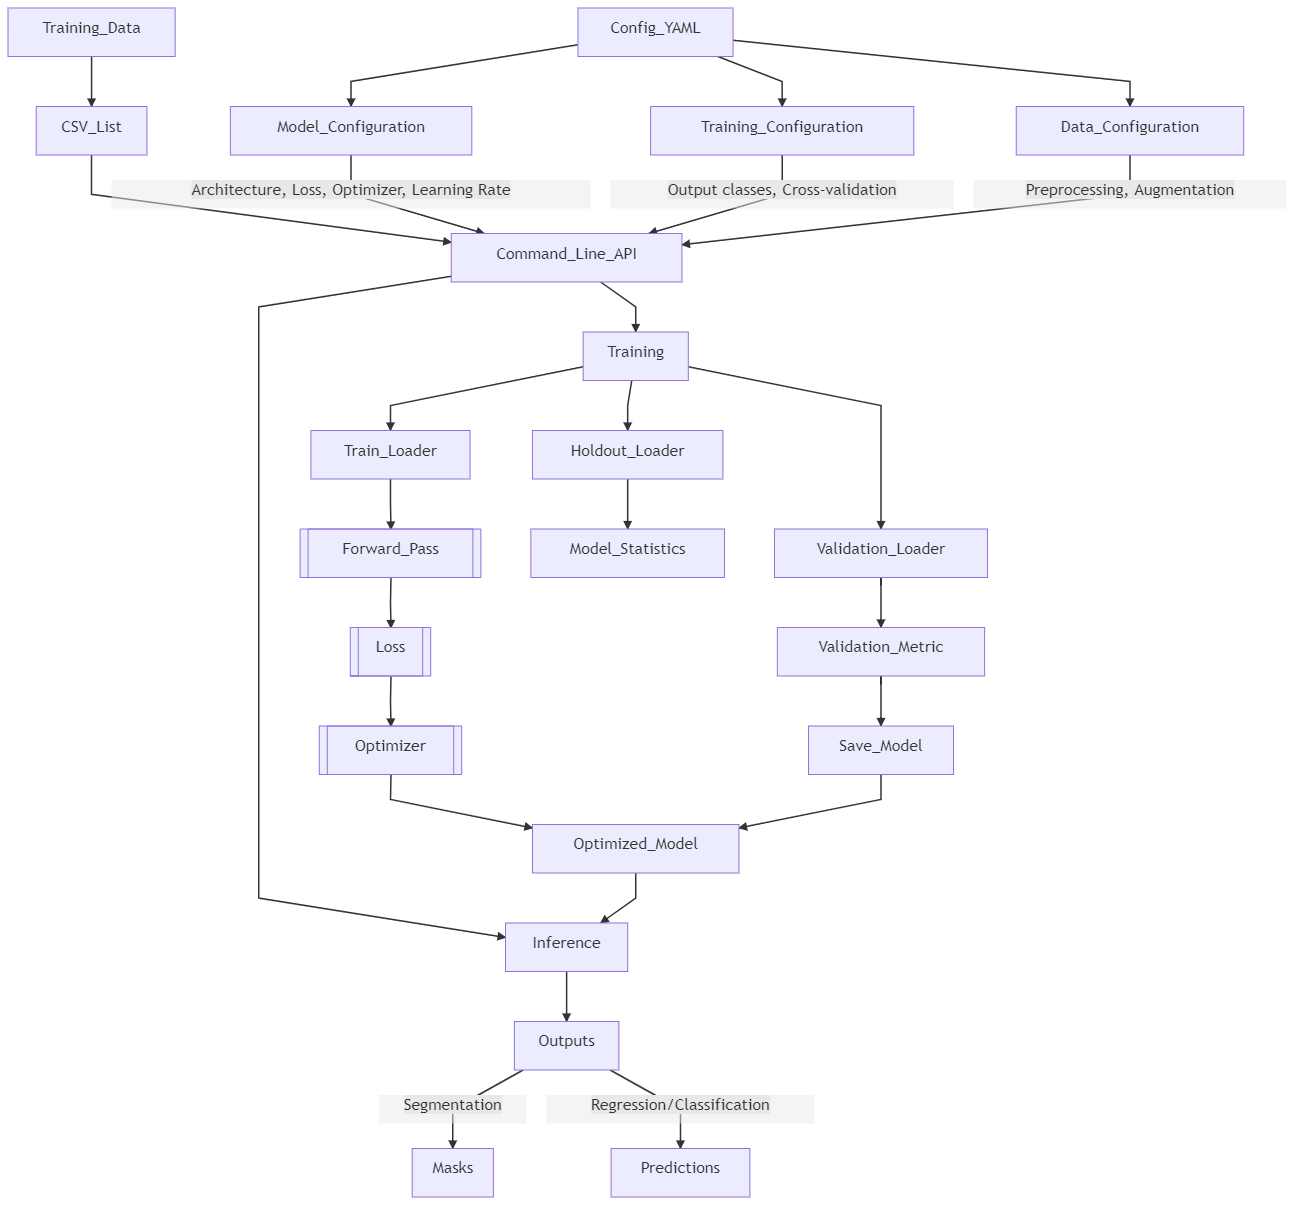
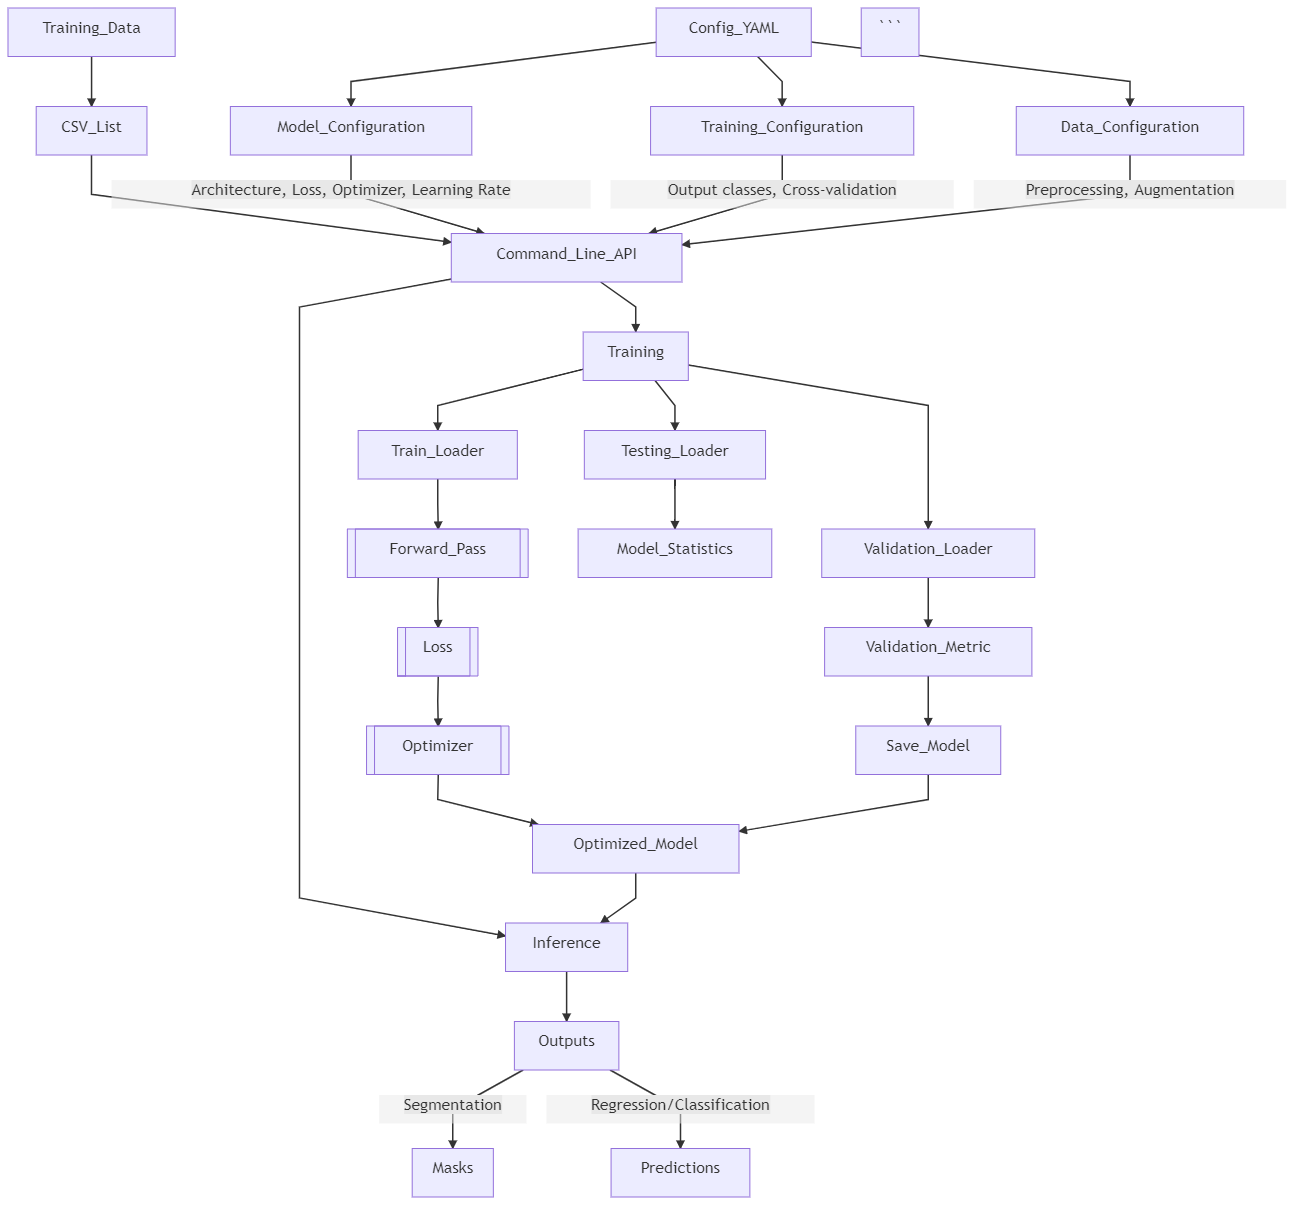
changed holdout to testing throughout #268

diff --git a/GANDLF/training_manager.py b/GANDLF/training_manager.py
@@ -28,50 +28,50 @@ def TrainingManager(dataframe, headers, outputDir, parameters, device):
 
     # check for single fold training
     singleFoldValidation = False
-    singleFoldHoldout = False
-    noHoldoutData = False
+    singleFoldTesting = False
+    noTestingData = False
 
-    if parameters['nested_training']['holdout'] < 0: # if the user wants a single fold training
-        parameters['nested_training']['holdout'] = abs(parameters['nested_training']['holdout'])
-        singleFoldHoldout = True
+    if parameters['nested_training']['testing'] < 0: # if the user wants a single fold training
+        parameters['nested_training']['testing'] = abs(parameters['nested_training']['testing'])
+        singleFoldTesting = True
 
     if parameters['nested_training']['validation'] < 0: # if the user wants a single fold training
         parameters['nested_training']['validation'] = abs(parameters['nested_training']['validation'])
         singleFoldValidation = True
 
-    # this is the condition where holdout data is not to be kept
-    if parameters['nested_training']['holdout'] == 1:
-        noHoldoutData = True
-        singleFoldHoldout = True
-        parameters['nested_training']['holdout'] = 2 # put 2 just so that the first for-loop does not fail
+    # this is the condition where testing data is not to be kept
+    if parameters['nested_training']['testing'] == 1:
+        noTestingData = True
+        singleFoldTesting = True
+        parameters['nested_training']['testing'] = 2 # put 2 just so that the first for-loop does not fail
 
     # initialize the kfold structures
-    kf_holdout = KFold(n_splits=parameters['nested_training']['holdout']) 
+    kf_testing = KFold(n_splits=parameters['nested_training']['testing']) 
     kf_validation = KFold(n_splits=parameters['nested_training']['validation'])
 
-    currentHoldoutFold = 0
+    currentTestingFold = 0
     currentValidationFold = 0
 
     # get the indeces for kfold splitting
     trainingData_full = dataframe
     training_indeces_full = list(trainingData_full.index.values)
 
-    # start the kFold train for holdout
-    for trainAndVal_index, holdout_index in kf_holdout.split(training_indeces_full): # perform holdout split
+    # start the kFold train for testing
+    for trainAndVal_index, testing_index in kf_testing.split(training_indeces_full): # perform testing split
 
-        # get the current training and holdout data
-        if noHoldoutData:
+        # get the current training and testing data
+        if noTestingData:
             trainingAndValidationData = trainingData_full # don't consider the split indeces for this case
-            holdoutData = None
+            testingData = None
         else:
             trainingAndValidationData = trainingData_full.iloc[trainAndVal_index]
-            holdoutData = trainingData_full.iloc[holdout_index]
+            testingData = trainingData_full.iloc[testing_index]
 
         # the output of the current fold is only needed if multi-fold training is happening
-        if singleFoldHoldout:
+        if singleFoldTesting:
             currentOutputFolder = outputDir
         else:
-            currentOutputFolder = os.path.join(outputDir, 'holdout_' + str(currentHoldoutFold))
+            currentOutputFolder = os.path.join(outputDir, 'testing_' + str(currentTestingFold))
             Path(currentOutputFolder).mkdir(parents=True, exist_ok=True)
 
         # save the current model configuration as a sanity check
@@ -80,20 +80,20 @@ def TrainingManager(dataframe, headers, outputDir, parameters, device):
             with open(currentModelConfigPickle, 'wb') as handle:
                 pickle.dump(parameters, handle, protocol=pickle.HIGHEST_PROTOCOL)
 
-        # save the current training+validation and holdout datasets 
-        if noHoldoutData:
+        # save the current training+validation and testing datasets 
+        if noTestingData:
             print('!!! WARNING !!!')
-            print('!!! Holdout data is empty, which will result in scientifically incorrect results; use at your own risk !!!')
+            print('!!! Testing data is empty, which will result in scientifically incorrect results; use at your own risk !!!')
             print('!!! WARNING !!!')
             current_training_indeces_full = trainingAndValidationData # using the new indeces for validation training
         else:
-            currentTrainingAndValidataionDataPickle = os.path.join(currentOutputFolder, 'trainAndVal.pkl')
-            currentHoldoutDataPickle = os.path.join(currentOutputFolder, 'holdout.pkl')
+            currentTrainingAndValidationDataPickle = os.path.join(currentOutputFolder, 'trainAndVal.pkl')
+            currentTestingDataPickle = os.path.join(currentOutputFolder, 'testing.pkl')
             
-            if not os.path.exists(currentHoldoutDataPickle):
-                holdoutData.to_pickle(currentHoldoutDataPickle)
-            if not os.path.exists(currentTrainingAndValidataionDataPickle):
-                trainingAndValidationData.to_pickle(currentTrainingAndValidataionDataPickle)
+            if not os.path.exists(currentTestingDataPickle):
+                testingData.to_pickle(currentTestingDataPickle)
+            if not os.path.exists(currentTrainingAndValidationDataPickle):
+                trainingAndValidationData.to_pickle(currentTrainingAndValidationDataPickle)
             
             current_training_indeces_full = list(trainingAndValidationData.index.values) # using the new indeces for validation training
 
@@ -112,7 +112,7 @@ def TrainingManager(dataframe, headers, outputDir, parameters, device):
 
             if (not parameters['parallel_compute_command']) or (singleFoldValidation): # parallel_compute_command is an empty string, thus no parallel computing requested
                 trainingLoop(trainingDataFromPickle=trainingData, validationDataFromPickle=validationData, headers = headers, outputDir=currentValOutputFolder,
-                            device=device, parameters=parameters, holdoutDataFromPickle=holdoutData)
+                            device=device, parameters=parameters, testingDataFromPickle=testingData)
 
             else:
                 # # write parameters to pickle - this should not change for the different folds, so keeping is independent
@@ -141,12 +141,12 @@ def TrainingManager(dataframe, headers, outputDir, parameters, device):
                     ' -val_loader_pickle ' + currentValidationDataPickle + \
                     ' -parameter_pickle ' + currentModelConfigPickle + \
                     ' -headers_pickle ' + headersPickle + \
-                    ' -device ' + str(device) + ' -outputDir ' + currentValOutputFolder + ' -holdout_loader_pickle '
+                    ' -device ' + str(device) + ' -outputDir ' + currentValOutputFolder + ' -testing_loader_pickle '
                 
-                if noHoldoutData:
+                if noTestingData:
                     command = command + 'None'
                 else:
-                    command = command + currentHoldoutDataPickle
+                    command = command + currentTestingDataPickle
                 
                 subprocess.Popen(command, shell=True).wait()
 
@@ -154,6 +154,6 @@ def TrainingManager(dataframe, headers, outputDir, parameters, device):
                 break
             currentValidationFold = currentValidationFold + 1 # increment the fold
 
-        if singleFoldHoldout:
+        if singleFoldTesting:
             break
-        currentHoldoutFold = currentHoldoutFold + 1 # increment the fold
+        currentTestingFold = currentTestingFold + 1 # increment the fold

diff --git a/GANDLF/training_loop.py b/GANDLF/training_loop.py
@@ -29,7 +29,7 @@ from GANDLF.losses import *
 from GANDLF.utils import *
 from .parameterParsing import *
 
-def trainingLoop(trainingDataFromPickle, validationDataFromPickle, headers, device, parameters, outputDir, holdoutDataFromPickle = None):
+def trainingLoop(trainingDataFromPickle, validationDataFromPickle, headers, device, parameters, outputDir, testingDataFromPickle = None):
     '''
     This is the main training loop
     '''
@@ -62,10 +62,10 @@ def trainingLoop(trainingDataFromPickle, validationDataFromPickle, headers, devi
                                                q_num_workers, q_verbose, sampler = parameters['patch_sampler'], train=True, augmentations=augmentations, preprocessing = preprocessing)
     validationDataForTorch = ImagesFromDataFrame(validationDataFromPickle, psize, headers, q_max_length, q_samples_per_volume,
                                                q_num_workers, q_verbose, sampler = parameters['patch_sampler'], train=False, augmentations=augmentations, preprocessing = preprocessing) # may or may not need to add augmentations here
-    if holdoutDataFromPickle is None:
-        print('No holdout data is defined, using validation data for those metrics')
-        holdoutDataFromPickle = validationDataFromPickle
-    inferenceDataForTorch = ImagesFromDataFrame(holdoutDataFromPickle, psize, headers, q_max_length, q_samples_per_volume,
+    if testingDataFromPickle is None:
+        print('No testing data is defined, using validation data for those metrics')
+        testingDataFromPickle = validationDataFromPickle
+    inferenceDataForTorch = ImagesFromDataFrame(testingDataFromPickle, psize, headers, q_max_length, q_samples_per_volume,
                                             q_num_workers, q_verbose, sampler = parameters['patch_sampler'], train=False, augmentations=augmentations, preprocessing = preprocessing)
     
     
@@ -129,7 +129,7 @@ def trainingLoop(trainingDataFromPickle, validationDataFromPickle, headers, devi
     # Creating a CSV to log training loop and writing the initial columns
     log_train_file = os.path.join(outputDir,"trainingScores_log.csv")
     log_train = open(log_train_file,"w")
-    log_train.write("Epoch,Train_Loss,Train_Dice,Val_Loss,Val_Dice,Holdout_Loss,Holdout_Dice\n")
+    log_train.write("Epoch,Train_Loss,Train_Dice,Val_Loss,Val_Dice,Testing_Loss,Testing_Dice\n")
     log_train.close()
 
     # initialize without considering background
@@ -300,7 +300,7 @@ def trainingLoop(trainingDataFromPickle, validationDataFromPickle, headers, devi
             patience_count = patience_count + 1 
         print("     Val DCE: ", format(average_val_dice,'.10f'), " | Best Train DCE: ", format(best_val_dice,'.10f'), " | Avg Train Loss: ", format(average_val_loss,'.10f'), " | Best Train Ep ", format(best_val_idx,'.1f'))
 
-        # stats for current holdout data
+        # stats for current testing data
         if average_test_dice > best_test_dice:
             best_test_idx = ep
             best_test_dice = average_test_dice
@@ -346,7 +346,7 @@ if __name__ == "__main__":
     parser = argparse.ArgumentParser(description = "Training Loop of GANDLF")
     parser.add_argument('-train_loader_pickle', type=str, help = 'Train loader pickle', required=True)
     parser.add_argument('-val_loader_pickle', type=str, help = 'Validation loader pickle', required=True)
-    parser.add_argument('-holdout_loader_pickle', type=str, help = 'Holdout loader pickle', required=True)
+    parser.add_argument('-testing_loader_pickle', type=str, help = 'Testing loader pickle', required=True)
     parser.add_argument('-parameter_pickle', type=str, help = 'Parameters pickle', required=True)
     parser.add_argument('-headers_pickle', type=str, help = 'Header pickle', required=True)
     parser.add_argument('-outputDir', type=str, help = 'Output directory', required=True)
@@ -359,11 +359,11 @@ if __name__ == "__main__":
     parameters = pickle.load(open(args.parameter_pickle,"rb"))
     trainingDataFromPickle = pd.read_pickle(args.train_loader_pickle)
     validationDataFromPickle = pd.read_pickle(args.val_loader_pickle)
-    holdoutData_str = args.holdout_loader_pickle
-    if holdoutData_str == 'None':
-        holdoutDataFromPickle = None
+    testingData_str = args.testing_loader_pickle
+    if testingData_str == 'None':
+        testingDataFromPickle = None
     else:
-        holdoutDataFromPickle = pd.read_pickle(holdoutData_str)
+        testingDataFromPickle = pd.read_pickle(testingData_str)
 
     trainingLoop(trainingDataFromPickle=trainingDataFromPickle, 
                  validationDataFromPickle=validationDataFromPickle, 
@@ -371,4 +371,4 @@ if __name__ == "__main__":
                  parameters=parameters,
                  outputDir=args.outputDir,
                  device=args.device,
-                 holdoutDataFromPickle=holdoutDataFromPickle,)
+                 testingDataFromPickle=testingDataFromPickle,)

diff --git a/GANDLF/parseConfig.py b/GANDLF/parseConfig.py
@@ -216,10 +216,10 @@ def parseConfig(config_file_path):
 
   if not params['nested_training']:
     sys.exit('The parameter \'nested_training\' needs to be defined')
-  if not params['nested_training']['holdout']:
+  if not params['nested_training']['testing']:
     kfolds = -10
-    print('Using default folds for holdout split: ', kfolds)
-    params['nested_training']['holdout']
+    print('Using default folds for testing split: ', kfolds)
+    params['nested_training']['testing']
   if not params['nested_training']['validation']:
     kfolds = -10
     print('Using default folds for validation split: ', kfolds)

diff --git a/docs/usage.md b/docs/usage.md
@@ -53,7 +53,7 @@ For classification/regression, add a column called `ValueToPredict`. **Note** th
 
 ## Plot the final results
 
-After the holdout/validation training is finished, GANDLF makes it possible to collect all the statistics from the final models for holdout and validation datasets and plot them. The [gandlf_collectStats](../gandlf_collectStats) can be used for this:
+After the testing/validation training is finished, GANDLF makes it possible to collect all the statistics from the final models for testing and validation datasets and plot them. The [gandlf_collectStats](../gandlf_collectStats) can be used for this:
 
 ```powershell
 # continue from previous shell

diff --git a/docs/README.md b/docs/README.md
@@ -26,13 +26,13 @@ graph TD;
     Outputs--Regression/Classification-->Predictions;
     Training-->Train_Loader;
     Training-->Validation_Loader;
-    Training-->Holdout_Loader;
+    Training-->Testing_Loader;
     Train_Loader-->FWD[[Forward_Pass]];
     FWD[[Forward_Pass]]-->Loss[[Loss]];
     Loss[[Loss]]-->Optimizer[[Optimizer]];
     Validation_Loader-->Validation_Metric;
     Validation_Metric-->Save_Model;
-    Holdout_Loader-->Model_Statistics;
+    Testing_Loader-->Model_Statistics;
     Optimizer[[Optimizer]]-->Optimized_Model;
     Save_Model-->Optimized_Model;
     Optimized_Model-->Inference;
